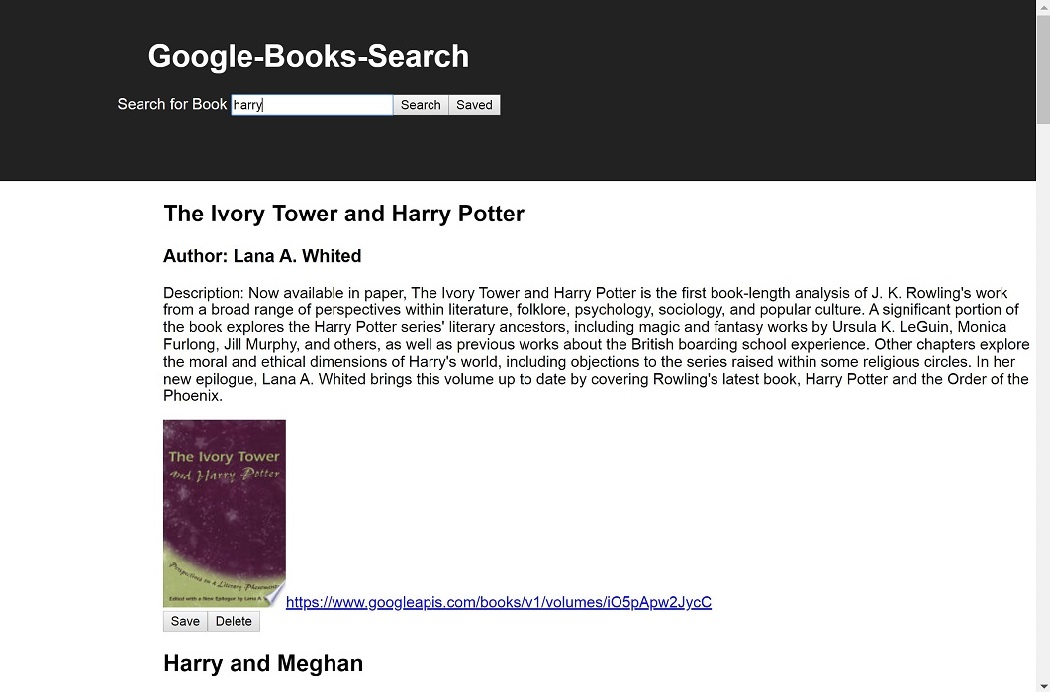
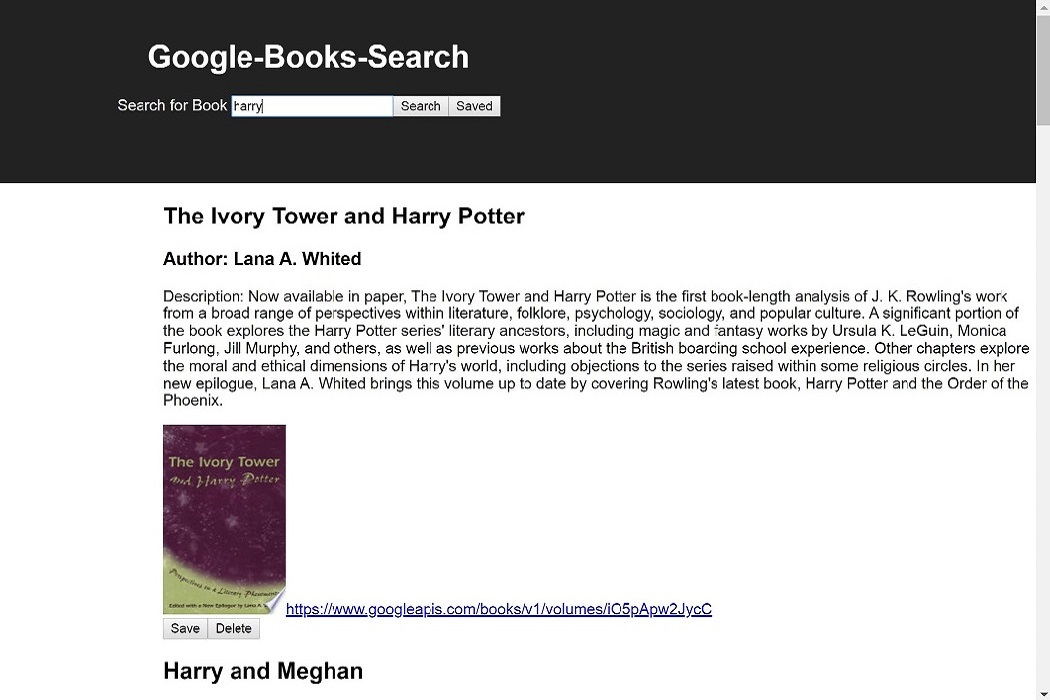
added border to images

diff --git a/portfolio.html b/portfolio.html
@@ -282,9 +282,10 @@
 								<img src="images/chrome-capture.gif" alt="">
 								<div class="portfolio_item_content d-flex flex-column align-items-center justify-content-center">
 									<div class="portfolio_item_title"><a href="https://scratch.mit.edu/projects/305078033" target="_blank">Cat and Mouse Game</a></div>
-									<!-- <div class="portfolio_item_link"><a href="https://github.com/vias2019/Liri-node-app" target="_blank">GitHub</a></div> -->
+									
 							</div>
 						</div>
+					</div>
 					</div>
 						
 				</div>

diff --git a/styles/portfolio.css b/styles/portfolio.css
@@ -461,7 +461,7 @@ section
 }
 .general_info_icon img
 {
-	max-width: 100%;
+	width: 100%;
 }
 .general_info_text,
 .general_info_text a
@@ -730,7 +730,11 @@ section
 }
 .portfolio_item img
 {
-	max-width: 100%;
+	width: 100%;
+	border-style: double;
+	border-width: 2px;
+	border-color: #100f3a;
+	
 }
 .mCSB_outside + .mCS-minimal.mCSB_scrollTools_vertical, .mCSB_outside + .mCS-minimal-dark.mCSB_scrollTools_vertical
 {
